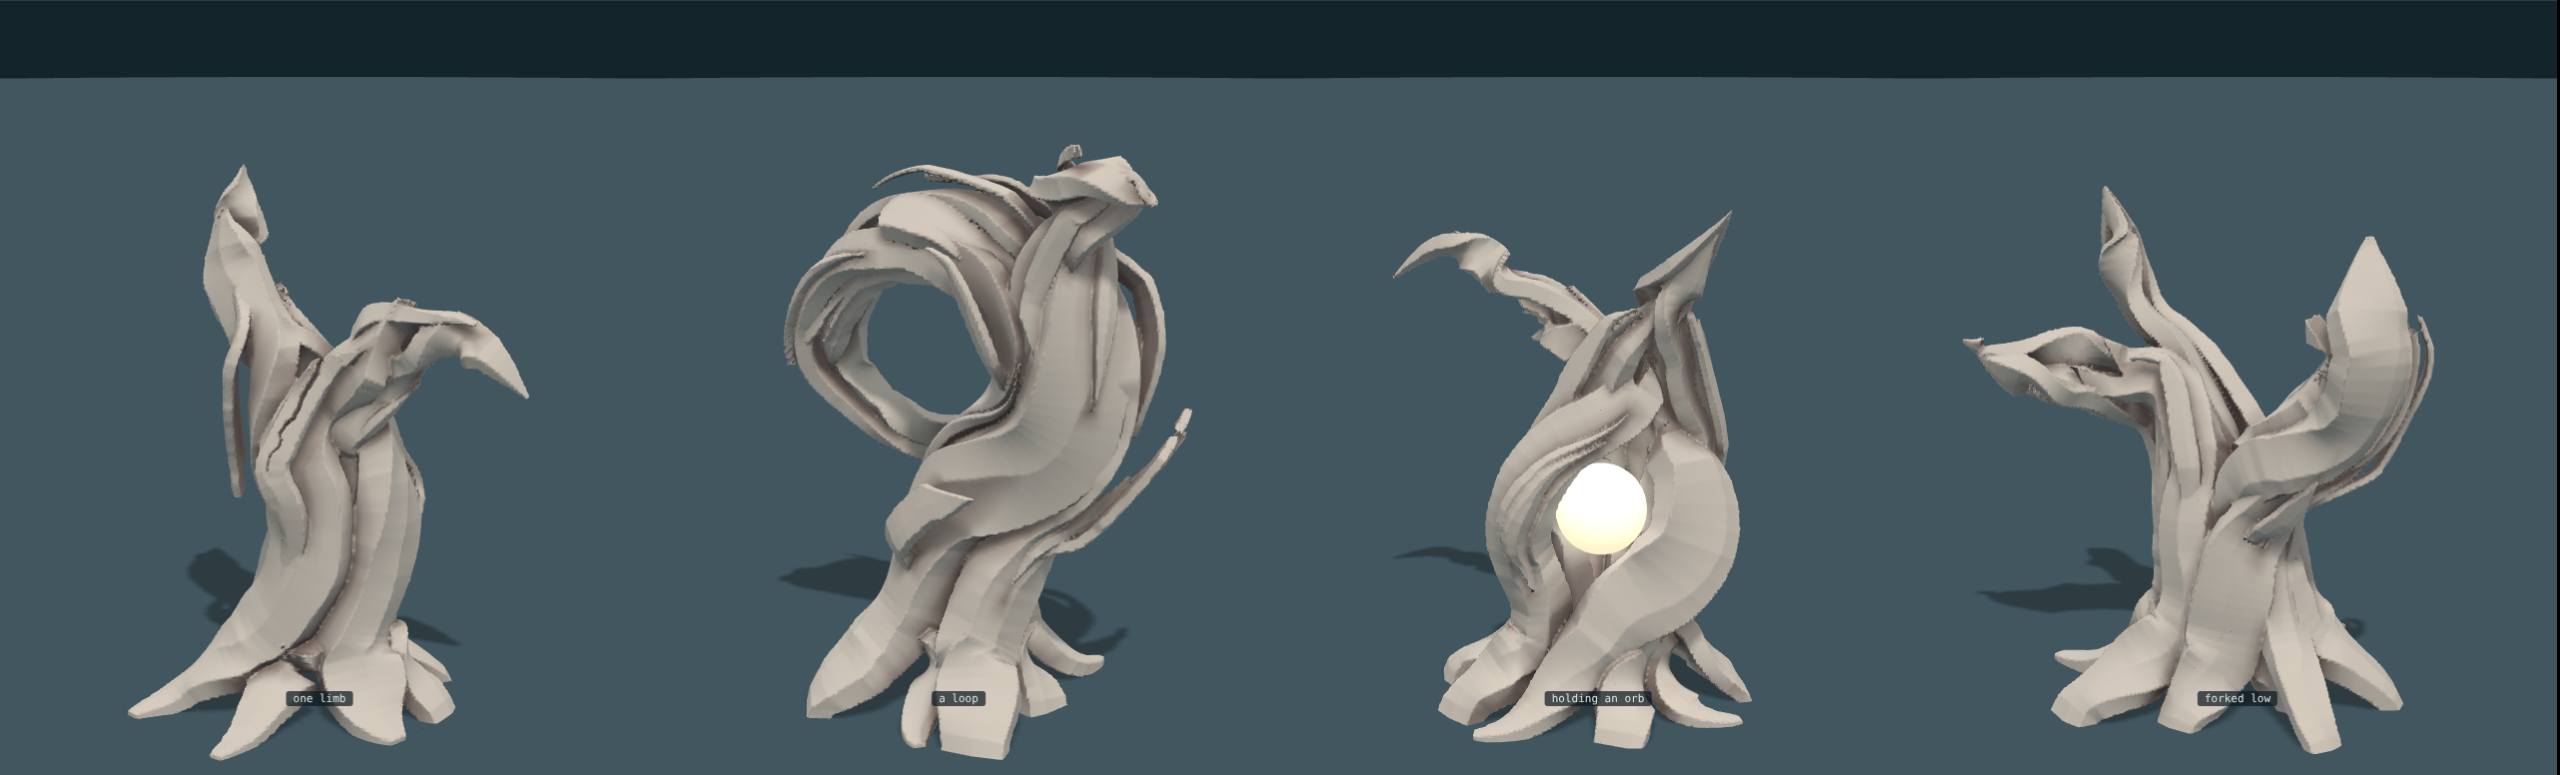
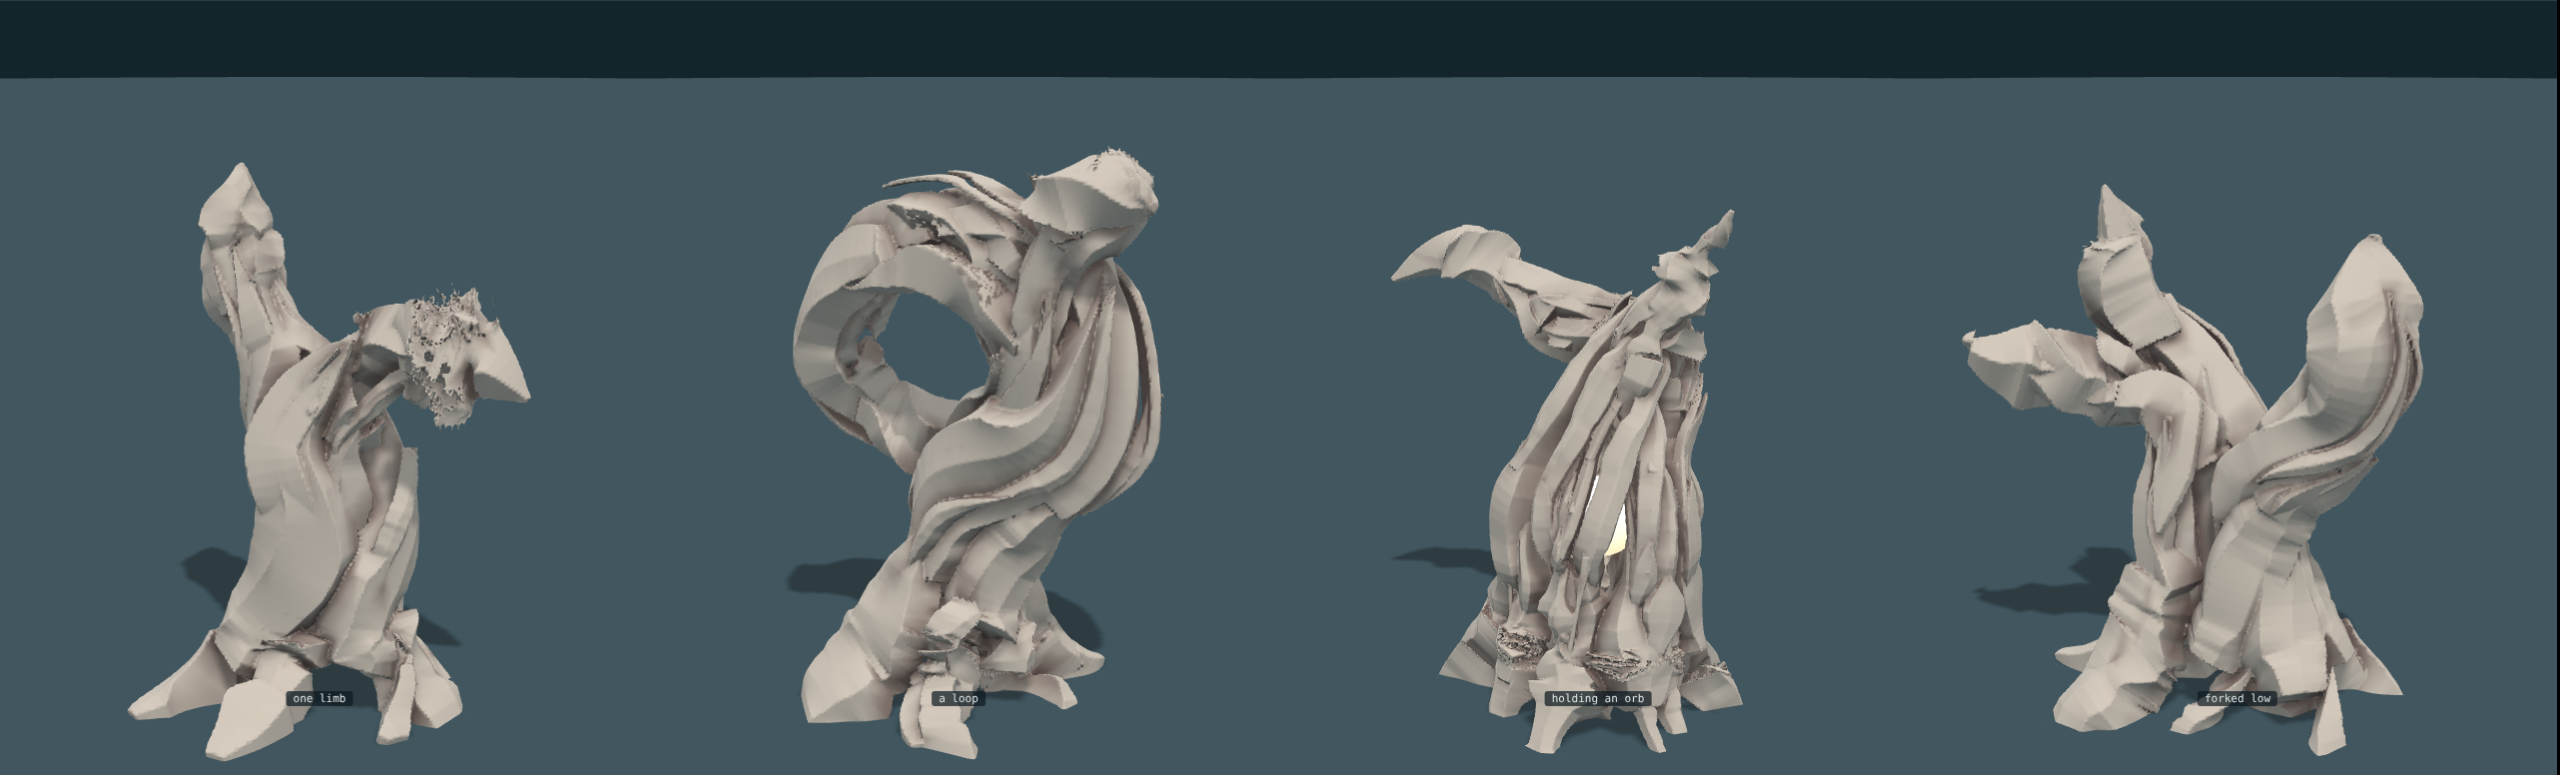
Trees: strands drawn as one mass away from tears; slanted ends no longer run past their pieces
Claude-Session: https://claude.ai/code/session_0192rgp75jGkttZXf7hEakip

diff --git a/sketch/page7.js b/sketch/page7.js
@@ -4,12 +4,13 @@
 //   bands    one to a strand: flat faces meeting at a ridge that wanders, a little give in its width. A strand
 //            that snapped ends in a break, cut on the slant or stepped.
 //   slivers  narrow shards lying on the bands, pointed at both ends, their far ends standing off.
-//   shell    thin rigid plates in a few places on the outer strands. Back sunk into the band, front lying on
+//   shell    thin plates of bark in a few places, a little broader than a strand, lying close. Back sunk into the band, front lying on
 //            top and ending in a point, a slant or a step; nearly all face toward the tip. No plate passes
 //            through another. One or two have split from the front.
 // Nothing is swept or blended. Throwaway like the other pages.
 (function () {
-  const { shard } = Wood5, { H, PI, clamp, sstep } = Fantastic.kit, mesh = Fantastic.mesh;
+  const shard = (K) => Wood5.shard(Object.assign(K, { inset: true })),   // a slanted end cuts back into its piece, never out past it
+    { H, PI, clamp, sstep } = Fantastic.kit, mesh = Fantastic.mesh;
   function rng(seed) { let a = (seed * 2654435761) >>> 0; return () => { a = (a + 0x6d2b79f5) | 0; let t = Math.imul(a ^ (a >>> 15), 1 | a); t = (t + Math.imul(t ^ (t >>> 7), 61 | t)) ^ t; return ((t ^ (t >>> 14)) >>> 0) / 4294967296; }; }
   const unit = (a) => { const l = H(a[0], a[1], a[2]) || 1; return [a[0] / l, a[1] / l, a[2] / l]; }, cross = (a, b) => [a[1] * b[2] - a[2] * b[1], a[2] * b[0] - a[0] * b[2], a[0] * b[1] - a[1] * b[0]], dot = (a, b) => a[0] * b[0] + a[1] * b[1] + a[2] * b[2];
   function tree(recipe) {
@@ -22,6 +23,11 @@
     // the piece before it; its front lies a little proud and ends in a point, a slant or a step. All face the tip.
     // No end is cut square: a cut meets the grain at 30 degrees or less.
     const chain = recipe.chain === undefined ? 1 : recipe.chain;
+    // Mass. A trunk is one body with its strands as relief, not cords with air between. Away from any tear a
+    // strand is drawn wide enough to run into its neighbours and deep enough to reach the middle of the wood
+    // round it. Where it has torn from another, or passes an orb, it is drawn at its own girth, so that the only
+    // gaps are tears. (mass: 0 turns this off.)
+    const mass = recipe.mass === undefined ? 1 : recipe.mass;
     // Elbows. A strand does not keep one width round a bend: the inside of the bend fills in, so it is broadest
     // at the elbow and its inner edge goes round on an easier curve than its middle. The sharper the bend the
     // more it fills, eased in before the corner and out after it, and never further than there is free room
@@ -45,15 +51,18 @@
       const K = s.K, fine = !!s.vine, ridge0 = 0.7 * (r() - 0.5); let k = 0, first = true;
       while (k < K - 1) {
         const rho0 = s.rho[Math.min(K - 1, k + 2)], want = chain && !s.thread ? Math.max(7, Math.round((7 + 10 * r()) * Math.max(rho0, 0.02) / 0.035)) : K; let k1 = Math.min(K - 1, k + want); if (K - 1 - k1 < 6) k1 = K - 1;
-        const k0 = first ? 0 : Math.max(0, k - 3), n = k1 - k0, last = k1 === K - 1, wide = (fine ? 0.95 : 1.15) + 0.2 * r(), high = (fine ? 0.8 : 0.62) + 0.25 * r(), stiff = chain ? 0.55 + 0.35 * r() : 0, proud = chain ? 0.1 + 0.25 * r() : 0, e = r(), ending = last ? 'own' : e < 0.4 ? 'point' : e < 0.75 ? 'blunt' : 'step';
+        const k0 = first ? 0 : Math.max(0, k - 3), n = k1 - k0, last = k1 === K - 1, wide = (fine ? 0.95 : 1.15) + 0.2 * r(), high = (fine ? 0.8 : 0.62) + 0.25 * r(), stiff = chain ? 0.55 + 0.35 * r() : 0, proud = chain ? 0.1 + 0.25 * r() : 0, massW = 1.55 + 0.4 * r(), e = r(), ending = last ? 'own' : e < 0.4 ? 'point' : e < 0.75 ? 'blunt' : 'step';
         const A = at(s, k0), B = at(s, k1), C = [], O = [], W = [], Hh = [], D = [];
         for (let i = k0; i <= k1; i++) { const q = (i - k0) / n, base = at(s, i), rho = s.rho[i], off = [0, 1, 2].map((j) => A[j] + (B[j] - A[j]) * q - base[j]), far = H(off[0], off[1], off[2]) || 1e-9, stay = Math.min(stiff, 0.35 * rho / far);
-          const lift = first ? proud * q * q : -0.28 * (1 - sstep(0, 0.3, q)) + proud * q * q, no = nearOrb(base), front = ending === 'point' ? Math.pow(Math.min(1, (1 - q) / 0.3), 0.7) : 1, back = first ? 1 : 0.7 + 0.3 * sstep(0, 0.3, q), w = Math.min(wide, 1.05 + (wide - 1.05) * (1 - no));
+          const no = nearOrb(base), tornHere = s.gap && s.inner && s.inner[i] ? Math.min(1, s.gap[i] / (1.2 * rho)) : 0, alone = 1 - sstep(0.9, 2.0, s.far[i] / rho), free = s.thread ? 1 : Math.max(no, tornHere, alone), body = mass * (1 - free),   // a strand running alone is a limb, not part of a mass
+          toMid = Math.max(0.95 * rho, Math.min(s.far[i] * 0.9, 3.2 * rho));
+          const lift = first ? proud * q * q : -0.28 * (1 - sstep(0, 0.3, q)) + proud * q * q, front = ending === 'point' ? Math.pow(Math.min(1, (1 - q) / 0.3), 0.7) : 1, back = first ? 1 : 0.7 + 0.3 * sstep(0, 0.3, q), w = Math.min(wide, 1.05 + (wide - 1.05) * (1 - no)) + body * (massW - 1.05);
+          let deepHere = rho * 0.95 + body * (toMid - rho * 0.95); if (t.orb) deepHere = Math.max(rho * 0.5, Math.min(deepHere, H(base[0] - t.orb.c[0], base[1] - t.orb.c[1], base[2] - t.orb.c[2]) - t.orb.room - 0.01));   // never into an orb's room
           const eg = ease[si].g[i], en = ease[si].dir[i], inn = s.inner && s.gap && s.gap[i] > 0 ? s.inner[i] : null, sv = eg || inn ? unit(cross(tan(s, i), s.O[i])) : null, gu = eg ? eg * dot(en, sv) : 0, gv = eg ? eg * dot(en, s.O[i]) : 0;   // the elbow's fill, across the strand and through it
           // a tear's lip: toward what it tore from, a part reaches a quarter of the way across the gap, so that
           // where the gap is narrow the two lips all but meet (a web with a slit), and where it is wide they stand apart
           let lipU = 0; if (inn) { const sg = dot(inn, sv); if (Math.abs(sg) > 0.4) lipU = Math.sign(sg) * roomToward(base, sv.map((v) => v * Math.sign(sg)), Math.min(0.25 * s.gap[i], 1.0 * rho), rho, si, s.fam); }
-          C.push([0, 1, 2].map((j) => base[j] + off[j] * stay + s.O[i][j] * rho * lift + (sv ? sv[j] * (gu + lipU) / 2 : 0))); O.push(s.O[i]); W.push(Math.max(0.006, rho * w * front * back + (Math.abs(gu) + Math.abs(lipU)) / 2)); Hh.push(rho * high * (0.6 + 0.4 * front) + Math.max(0, gv) * 0.5); D.push(rho * 0.95 + Math.max(0, -gv)); }
+          C.push([0, 1, 2].map((j) => base[j] + off[j] * stay + s.O[i][j] * rho * lift + (sv ? sv[j] * (gu + lipU) / 2 : 0))); O.push(s.O[i]); W.push(Math.max(0.006, rho * w * front * back + (Math.abs(gu) + Math.abs(lipU)) / 2)); Hh.push(rho * high * (0.6 + 0.4 * front) + Math.max(0, gv) * 0.5); D.push(deepHere + Math.max(0, -gv)); }
         const w1 = W[W.length - 1], end = ending === 'own' ? (s.snapped ? { skew: (r() < 0.5 ? -1 : 1) * (1.8 + 1.4 * r()), step: r() < 0.5 ? { u: 0.5 * (r() - 0.5), side: r() < 0.5 ? -1 : 1, a: w1 * (0.8 + 1.4 * r()) } : null } : { skew: 0 })
           : ending === 'step' ? { skew: (r() < 0.5 ? -1 : 1) * (1.8 + 1.2 * r()), step: { u: 0.5 * (r() - 0.5), side: r() < 0.5 ? -1 : 1, a: w1 * (0.9 + 1.2 * r()) } } : ending === 'blunt' ? { skew: (r() < 0.5 ? -1 : 1) * (1.8 + 1.4 * r()) } : { skew: 0 };
         // a part that has torn from another is thickest on its far side and thins to a lip toward the tear
@@ -74,17 +83,17 @@
       all.push(shard({ C, O, W, Hh, D, deep: Math.max(...D), seed: sd, wiggle: 1, ridge: rd, eL, eR, skew: 0 })); count.slivers++;
     }
     // the shell
-    const shell = [], room = 0.012, rigid = 0.8;
+    const shell = [], room = 0.012, rigid = 0.5;
     const makePlate = (s, k0, k1, forward, side, wide, high, ending, P, seed) => {
       if (k1 - k0 < 8) return null; const on = [], outs = [], Rs = [], qs = [], n0 = k1 - k0;
-      for (let k = forward ? k0 : k1; forward ? k <= k1 : k >= k0; k += forward ? 1 : -1) { const q = Math.abs(k - (forward ? k0 : k1)) / n0, o = s.O[k], sv = unit(cross(tan(s, k), o)), rho = s.rho[k], p = at(s, k), lift = -0.3 + 1.45 * sstep(0, 0.5, q) + 0.3 * q * q;   // from its back to its front: sunk, then up through the band, then lying on it
+      for (let k = forward ? k0 : k1; forward ? k <= k1 : k >= k0; k += forward ? 1 : -1) { const q = Math.abs(k - (forward ? k0 : k1)) / n0, o = s.O[k], sv = unit(cross(tan(s, k), o)), rho = s.rho[k], p = at(s, k), lift = -0.3 + 1.1 * sstep(0, 0.5, q) + 0.25 * q * q;   // from its back to its front: sunk, then up through the band, then lying on it
         on.push([0, 1, 2].map((i) => p[i] + o[i] * rho * lift + sv[i] * rho * side)); outs.push(o); Rs.push(rho); qs.push(q); }
       const n = on.length, km = clamp(Math.round(n * 0.62), 1, n - 2), Tm = unit([0, 1, 2].map((i) => on[km + 1][i] - on[km - 1][i])), arc = new Array(n).fill(0);
       for (let k = km + 1; k < n; k++) arc[k] = arc[k - 1] + H(on[k][0] - on[k - 1][0], on[k][1] - on[k - 1][1], on[k][2] - on[k - 1][2]);
       for (let k = km - 1; k >= 0; k--) arc[k] = arc[k + 1] - H(on[k][0] - on[k + 1][0], on[k][1] - on[k + 1][1], on[k][2] - on[k + 1][2]);
       const C = [], O = [], W = [], Hh = [], rr = rng(seed);
       for (let k = 0; k < n; k++) {   // rigid: part way to dead straight, and never more than about half a strand's girth off its line
-        const off = [0, 1, 2].map((i) => on[km][i] + Tm[i] * arc[k] - on[k][i]), far = H(off[0], off[1], off[2]) || 1e-9, stay = Math.min(rigid, 0.6 * Rs[k] / far), front = ending === 'point' ? Math.pow(Math.min(1, (1 - qs[k]) / 0.3), 0.7) : 1, back = 0.55 + 0.45 * sstep(0, 0.35, qs[k]);
+        const off = [0, 1, 2].map((i) => on[km][i] + Tm[i] * arc[k] - on[k][i]), far = H(off[0], off[1], off[2]) || 1e-9, stay = Math.min(rigid, 0.3 * Rs[k] / far), front = ending === 'point' ? Math.pow(Math.min(1, (1 - qs[k]) / 0.3), 0.7) : 1, back = 0.55 + 0.45 * sstep(0, 0.35, qs[k]);
         C.push([0, 1, 2].map((i) => on[k][i] + off[i] * stay)); O.push(unit([0, 1, 2].map((i) => outs[k][i] + (outs[km][i] - outs[k][i]) * rigid))); W.push(Math.max(0.004, Rs[k] * wide * front * back)); Hh.push(Rs[k] * high * (0.5 + 0.5 * front) * (1 - 0.45 * qs[k] * qs[k])); }
       const w1 = Rs[n - 1] * wide, end = ending === 'step' ? { skew: (rr() < 0.5 ? -1 : 1) * (1.8 + 1.2 * rr()), step: { u: 0.5 * (rr() - 0.5), side: rr() < 0.5 ? -1 : 1, a: w1 * (0.9 + 1.2 * rr()) } } : ending === 'blunt' ? { skew: (rr() < 0.5 ? -1 : 1) * (1.8 + 1.4 * rr()) } : { skew: 0 };
       return Object.assign({ C, O, W, Hh, deep: Rs[km] * 0.25, seed: 1 + Math.floor(rr() * 1e6), wiggle: 1 }, P, end);
@@ -101,11 +110,11 @@
       }
       count.dropped++;
     };
-    const want = recipe.bare ? 0 : recipe.plates === undefined ? 14 : recipe.plates, splitAt = [Math.floor(want * r()), Math.floor(want * r())];
+    const want = recipe.bare ? 0 : recipe.plates === undefined ? 16 : recipe.plates, splitAt = [Math.floor(want * r()), Math.floor(want * r())];
     for (let j = 0; j < want; j++) {
-      const s = thick[Math.floor(r() * thick.length)], len = 12 + Math.floor(18 * r()), forward = r() < 0.9, side = 0.7 * (r() - 0.5), wide = 0.5 + 0.4 * r(), high = 0.26 + 0.12 * r(), e = r(), rd = 0.6 * (r() - 0.5), eL = 0.5 + 0.4 * r(), eR = 0.5 + 0.4 * r(), sd = 1 + Math.floor(r() * 1e6), u1 = r(), u2 = r(), u3 = r(), u4 = r(), st = stretch(s, len), split = splitAt.includes(j);
+      const s = thick[Math.floor(r() * thick.length)], len = 12 + Math.floor(18 * r()), forward = r() < 0.9, side = 0.7 * (r() - 0.5), wide = 0.95 + 0.6 * r(), high = 0.2 + 0.1 * r(), e = r(), rd = 0.6 * (r() - 0.5), eL = 0.5 + 0.4 * r(), eR = 0.5 + 0.4 * r(), sd = 1 + Math.floor(r() * 1e6), u1 = r(), u2 = r(), u3 = r(), u4 = r(), st = stretch(s, len), split = splitAt.includes(j);
       if (!st) { count.dropped++; continue; }
-      plate(s, st[0], st[1], forward, side, wide, high, split ? 'blunt' : e < 0.5 ? 'point' : e < 0.75 ? 'blunt' : 'step', { ridge: rd, eL, eR, split: split ? { fromEnd: true, s0: 0.42 + 0.2 * u1, s1: 1.001, u: 0.4 * (u2 - 0.5), wide: 0.2 + 0.12 * u3, lift: 0.5 + 0.5 * u4, depth: 9 } : null }, sd);
+      plate(s, st[0], st[1], forward, side, wide, high, split ? 'blunt' : e < 0.7 ? 'point' : 'blunt', { ridge: rd, eL, eR, split: split ? { fromEnd: true, s0: 0.42 + 0.2 * u1, s1: 1.001, u: 0.4 * (u2 - 0.5), wide: 0.2 + 0.12 * u3, lift: 0.5 + 0.5 * u4, depth: 9 } : null }, sd);
     }
     // which strands are near which place, so that only those are asked
     const cell = 0.12, grid = new Map(), key = (x, y, z) => (x + 64) * 16384 + (y + 64) * 128 + z + 64;
@@ -118,7 +127,7 @@
   const bare = false, S = [
     ['one limb', tree({ bare, seed: 1, trunk: [[0, 0.22, 0, 0.27], [0.08, 0.7, 0.02, 0.25], [-0.1, 1.1, 0.05, 0.22], [-0.32, 1.45, 0, 0.18], [-0.3, 1.8, -0.05, 0.14]], limbs: [{ at: 0.5, share: 0.38, path: [[0.35, 1.25, 0.15], [0.62, 1.3, 0.2], [0.8, 1.1, 0.15]] }] })],
     ['a loop', tree({ bare, seed: 2, twist: 0.9, trunk: [[0, 0.22, 0, 0.28], [0.1, 0.7, 0, 0.26], [0.42, 1.05, 0.08, 0.23], [0.3, 1.5, 0.16, 0.2], [-0.26, 1.52, 0.08, 0.18], [-0.54, 1.08, -0.08, 0.16], [-0.2, 0.82, -0.22, 0.14], [0.2, 1.0, -0.34, 0.11]], limbs: [{ at: 0.42, share: 0.25, path: [[0.6, 1.8, 0.3], [0.82, 1.72, 0.36]] }] })],
-    ['holding an orb', tree({ bare, seed: 3, strands: 12, uneven: 0.9, lmax: 0.9, settle: 200, trunk: [[0, 0.22, 0, 0.3], [0, 0.6, 0, 0.28], [0.1, 1.0, 0, 0.23], [0.3, 1.4, 0.1, 0.18], [0.55, 1.7, 0.2, 0.13]], limbs: [{ at: 0.6, share: 0.3, path: [[-0.3, 1.3, -0.1], [-0.6, 1.5, -0.1], [-0.8, 1.35, 0]] }], orb: { at: 0.27, r: 0.13, room: 0.4, off: 0.75, split: { at: 1.2 } } }), 0.0065],
+    ['holding an orb', tree({ bare, seed: 3, strands: 12, uneven: 0.9, lmax: 0.9, settle: 60, trunk: [[0, 0.22, 0, 0.3], [0, 0.6, 0, 0.28], [0.1, 1.0, 0, 0.23], [0.3, 1.4, 0.1, 0.18], [0.55, 1.7, 0.2, 0.13]], limbs: [{ at: 0.6, share: 0.3, path: [[-0.3, 1.3, -0.1], [-0.6, 1.5, -0.1], [-0.8, 1.35, 0]] }], orb: { at: 0.27, r: 0.13, room: 0.4, off: 0.75, split: { at: 1.2 } } }), 0.0065],
     ['forked low', tree({ bare, seed: 4, strands: 10, twist: 0.3, trunk: [[0, 0.22, 0, 0.3], [-0.05, 0.6, 0, 0.28], [-0.2, 0.98, -0.05, 0.22], [-0.45, 1.35, -0.1, 0.17], [-0.5, 1.72, 0, 0.13]], limbs: [{ at: 0.3, share: 0.4, path: [[0.35, 0.9, 0.1], [0.55, 1.25, 0.2], [0.5, 1.6, 0.1]] }, { at: 0.62, share: 0.25, path: [[-0.6, 1.1, 0.25], [-0.85, 1.2, 0.35]] }] })],
   ];
   window.Fantastic = { names: S.map((s) => s[0]), orbs: S.map((s) => s[1].orb), measures: S.map((s) => s[1].measure), counts: S.map((s) => s[1].count), build: (i) => mesh(S[i][1], S[i][0], S[i][2] || 0.0095, 2.05), mesh, kit: Fantastic.kit };

diff --git a/sketch/page5.js b/sketch/page5.js
@@ -64,7 +64,7 @@
       // inside all of: the two faces of the roof, the two side walls, a floor below, and the two ends. The front end
       // may be cut on the slant, or stepped: one side of it ending short of the other.
       const dp = K.D ? lerp(K.D[bi], K.D[bi + 1], bt) : K.deep;   // how far it goes down below its line: one depth, or one for each step of it
-      const cut = K.skew * u + (K.step && (u - K.step.u * w) * K.step.side > 0 ? K.step.a : 0);
+      const cut = (K.inset ? Math.abs(K.skew) * (w + Math.sign(K.skew) * u) : K.skew * u) + (K.step && (u - K.step.u * w) * K.step.side > 0 ? K.step.a : 0);
       // feather: toward one edge the piece thins, above and below, to a lip (a torn edge is drawn thin, not cut square)
       const thin = K.feather ? 1 - K.featherAmt * clamp(K.feather * u / w, 0, 1) : 1, roofH = u < xm ? yl + (u + w) * (h - yl) / (xm + w) : yr + (w - u) * (h - yr) / (w - xm), vf = vv + roofH * (1 - thin);
       let d = Math.max(((u + w) * lx + (vf - yl) * ly) / H(lx, ly), ((u - xm) * rx + (vf - h) * ry) / H(rx, ry), -u - w, u - w, -vv - dp * thin, -s, s - L[n - 1] + cut, pre ? -1 : Math.abs(along) - 0.03);   // and never out past a fold in its own line

diff --git a/LOG.md b/LOG.md
@@ -1999,3 +1999,46 @@ What it cost, measured:
   and 147 degrees) that they did not have. Not understood.
 - With every part long and along the grain it is closer to a sheaf of
   strips again, which is the look called ribbony three steps ago.
+
+**Strands may overlap; the fault is the bundle of strings.** "Strands can
+overlap, right now the challenge is making it look less like a bundle of
+strings." So the two overlapping pairs above are not a fault, and the
+clearing phase is cut back (200 passes to 60).
+
+Why it was strings, as read here: every strand was cleared fully from its
+neighbours and drawn no wider than itself, so each was a separate cord
+with air round it; and each was a shallow strip, with nothing behind it.
+
+Changed in page 7's surface (mass): away from any tear, a strand is drawn
+wide enough to run into its neighbours (1.55 to 1.95 girths, was about
+1.2) and deep enough to reach the middle of the wood round it. Where it
+has torn from another, passes an orb, or runs alone as a limb, it is drawn
+at its own girth. So the only gaps left are tears.
+
+Three things went wrong on the way, all showing as flat planks and fins
+standing off the trees (`sketch/page7-mass-with-planks.png`):
+
+1. Blamed the bark first. I had also made the plates broad enough to lie
+   over several strands; narrowed them again and laid them closer. The
+   fins did not change. The broad plates stay withdrawn anyway.
+2. Blamed the widening where a strand runs alone. Limited it to bundles.
+   The fins did not change.
+3. The cause: the long slanted ends introduced for "nothing square" two
+   entries up. A slant was centred on the strand's end, so one side of
+   every cut ran out past the end as a straight blade, up to 0.26 long.
+   A slant now only cuts back into its piece. (Page 5's shard has an
+   option for this; page 5 itself is unchanged.)
+
+`sketch/page7.png` (all four), `sketch/page7-orb-mass.png`. Trunks are
+solid and ridged, limbs are heavy, and the orb's openings read as tears
+in a body.
+
+Wrong, or not there:
+
+- Ragged crumbs where roots meet the ground on three trees, and a ragged
+  patch on the one-limb tree's limb.
+- On the orb tree the lower half is still strandy: those are torn parts,
+  drawn at their own girth, and there are many of them.
+- The orb shows through one opening from the front, not several.
+- Bark is back to a few narrow plates. Nothing ties the surface across
+  strands except their running into each other.
